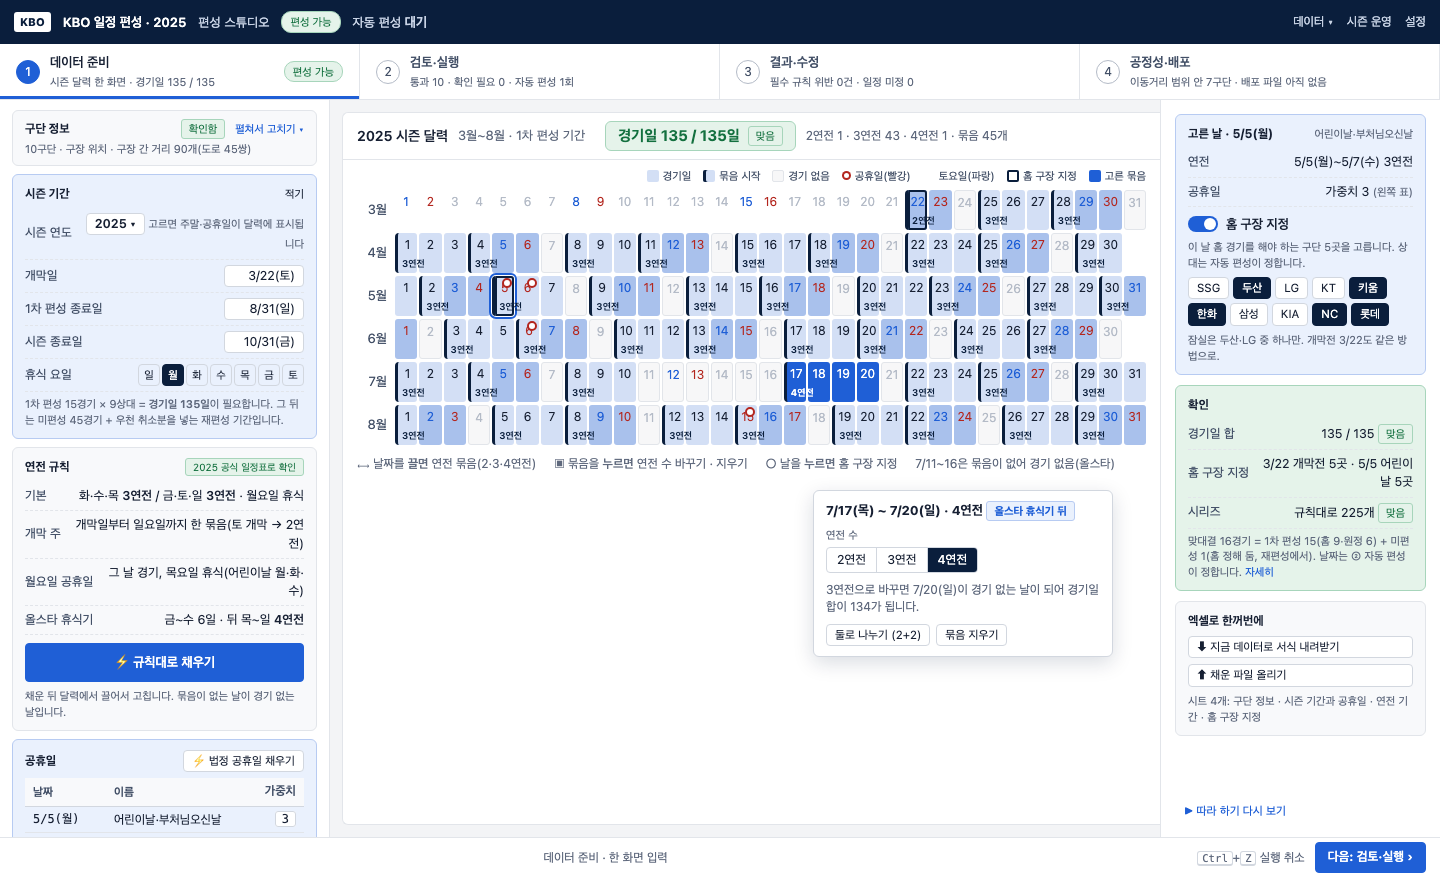
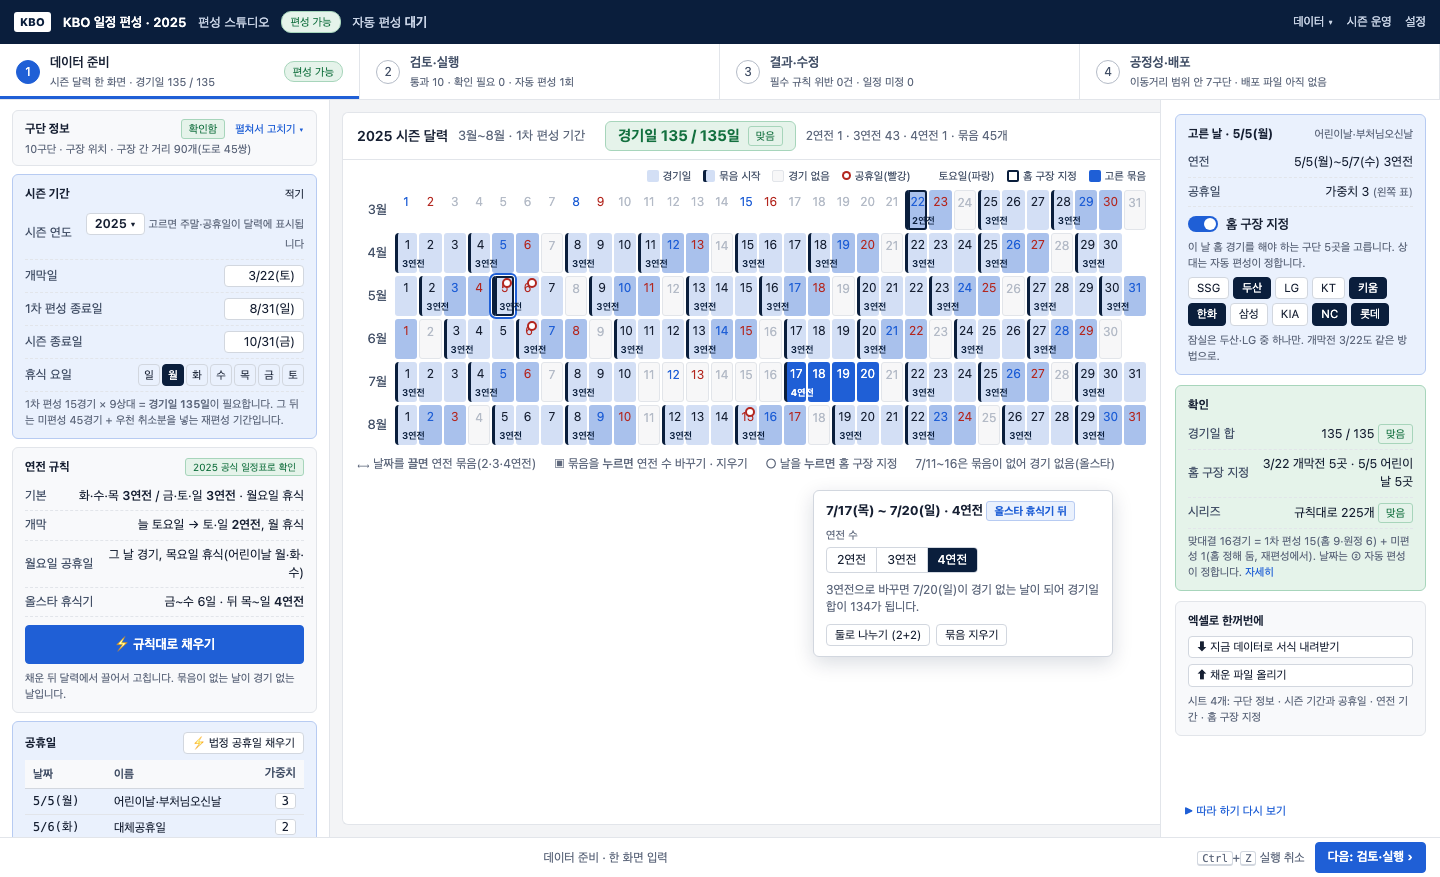
편성 스튜디오 ① 입력 흐름 추천안 R: 개막은 늘 토요일(토·일 2연전)로 규칙을 고정하고, 엑셀 연전 기간 서식 두 꼴(날짜 행 / 날짜 × 구장 격자)을 그림으로 더한다.

Changed region(s): [[0.0, 0.5849, 0.2188, 0.9544]]

diff --git a/ui-archive/input-flow-concepts/x-grid.html b/ui-archive/input-flow-concepts/x-grid.html
@@ -1,0 +1,38 @@
+<!doctype html>
+<html lang="ko"><head><meta charset="utf-8"><title>엑셀 서식 ㄴ · 날짜 × 구장 격자 — 공식 일정표 모양의 달력 시트 하나</title>
+<link rel="stylesheet" href="xl.css"></head>
+<body>
+<div class="xl">
+  <div class="ribbon"><span class="file">2025_편성입력.xlsx</span><span class="muted">서식 ㄴ · 격자 — 시트 3개: 구단 정보 · <b>시즌 달력</b>(날짜 행 × 구장 열, 공식 일정표와 같은 모양) · 설명</span></div>
+  <div class="two">
+    <div class="sheet wide">
+      <div class="cap">시트 ② 시즌 달력 — 공식 일정표와 같은 행·열. <b>연전</b> 열에 묶음 첫날만 2·3·4를 적고, <b>공휴일·가중치</b>는 그 날 행에, <b>홈 구장 지정</b>은 구장 열에 ○. 나머지 칸은 비워 둡니다(대진은 자동 편성이 채웁니다).</div>
+      <table id="t2"></table>
+    </div>
+    <div class="sheet narrow">
+      <div class="note"><b>읽는 법</b><br>· 연전 열의 숫자 = 그 날부터 N일 묶음(아래 N−1줄은 비움). 빈 날 = 경기 없음(월요일·올스타).<br>· 공휴일 열에 이름, 가중치 열에 숫자.<br>· 구장 열의 ○ = 그 날 그 구장 홈 경기 고정(개막전·어린이날). 잠실은 ○ 옆에 구단(두산/LG).<br>· 시즌 기간(개막일·1차 편성 종료일)은 시트 맨 위 칸.</div>
+      <div class="note" style="margin-top:12px"><b>장점</b> 담당자가 보는 공식 일정표와 같은 모양이라 요일·주가 눈에 보이고, 날짜에 붙는 입력(연전·공휴일·홈 구장)이 시트 하나에 모임. 결과(③) 내보내기와 같은 꼴이라 전년 결과 파일을 복사해 고치는 식으로 쓸 수 있음.<br><b>단점</b> 줄이 163개(3/22~8/31)로 길고, 묶음 첫날에만 숫자를 적는 규칙을 알아야 함. 구장 열 9개 중 대부분 비어 있어 「왜 비었나」 설명이 필요. 읽는 쪽(스튜디오)은 규칙 검사(묶음 겹침·월요일)를 더 해야 함.</div>
+      <div class="note" style="margin-top:12px;background:#EAF1FD;border-color:#B7CBF2"><b>절충</b> 격자 시트에서 구장 열을 빼고 「월·일·요일·연전·공휴일·가중치·홈 구장(구단 5개 쉼표)」 7열만 두면, 공식 표의 세로 흐름은 살리고 빈 칸은 줄어듭니다.</div>
+    </div>
+  </div>
+  <div class="tabs"><span>① 구단 정보</span><span class="on">② 시즌 달력</span><span class="muted">설명</span></div>
+</div>
+<script src="concept.js"></script>
+<script>
+  const C = Concept, S = C.S2025, sl = C.slots(S), WD = C.D.WD, ST = ['잠실', '고척', '문학', '수원', '대전', '대구', '광주', '사직', '창원'];
+  const start = new Map(sl.map((s) => [s.start, s.len]));
+  const hol = new Map(S.holidays.map((h) => [C.D.dn(h.date), h.name]));
+  const W = (n) => (/어린이날/.test(hol.get(n) || '') ? 3 : 2);
+  const pin = { '2025-03-22': { 잠실: '○ LG', 문학: '○', 수원: '○', 대전: '○', 대구: '○' }, '2025-05-05': { 잠실: '○ 두산', 고척: '○', 대전: '○', 창원: '○', 사직: '○' } };
+  let h = '<tr><th class="rn"></th>' + 'ABCDEFGHIJKLMNO'.split('').map((c) => '<th>' + c + '</th>').join('') + '</tr>';
+  h += '<tr><td class="rn">1</td><td class="h">개막일</td><td class="in">2025-03-22</td><td class="h">1차 편성 종료일</td><td class="in">2025-08-31</td><td class="h">휴식 요일</td><td class="in">월</td><td colspan="9" class="muted">↓ 연전 열에 묶음 첫날만 숫자 · 구장 열에 ○ = 홈 구장 지정</td></tr>';
+  h += '<tr><td class="rn">2</td><td class="h">월</td><td class="h">일</td><td class="h">요일</td><td class="h">연전</td><td class="h">공휴일</td><td class="h">가중치</td>' + ST.map((s) => '<td class="h">' + s + '</td>').join('') + '</tr>';
+  let r = 3;
+  for (let n = C.D.dn('2025-03-22'); n <= C.D.dn('2025-04-13'); n++) {
+    const w = C.D.wd(n), iso = C.D.iso(n), p = pin[iso] || {};
+    h += '<tr' + (w === 1 ? ' class="rest"' : '') + '><td class="rn">' + (r++) + '</td><td>' + C.D.mo(n) + '</td><td class="' + (w === 6 ? 'sat' : w === 0 ? 'sun' : '') + '">' + C.D.dd(n) + '</td><td class="' + (w === 6 ? 'sat' : w === 0 ? 'sun' : '') + '">' + WD[w] + '</td><td class="in">' + (start.get(n) || '') + '</td><td class="' + (hol.has(n) ? 'sun' : '') + '">' + (hol.get(n) || '') + '</td><td class="in">' + (hol.has(n) ? W(n) : '') + '</td>' + ST.map((s) => '<td class="in">' + (p[s] || '') + '</td>').join('') + '</tr>';
+  }
+  h += '<tr><td class="rn">…</td><td colspan="15" class="muted">… 8/31까지 163줄. 5/5(월) 행: 연전 3 · 어린이날·부처님오신날 · 3 · 잠실 ○ 두산 · 고척 ○ · 대전 ○ · 창원 ○ · 사직 ○ / 7/11~7/16: 연전 비움(올스타) / 7/17: 연전 4</td></tr>';
+  document.getElementById('t2').innerHTML = h;
+</script>
+</body></html>

diff --git a/ui-archive/input-flow-concepts/x-rows.html b/ui-archive/input-flow-concepts/x-rows.html
@@ -1,0 +1,46 @@
+<!doctype html>
+<html lang="ko"><head><meta charset="utf-8"><title>엑셀 서식 ㄱ · 날짜 행 — 연전 기간 시트(시작일·연전 수) + 홈 구장 지정 시트</title>
+<link rel="stylesheet" href="xl.css"></head>
+<body>
+<div class="xl">
+  <div class="ribbon"><span class="file">2025_편성입력.xlsx</span><span class="muted">서식 ㄱ · 날짜 행 — 시트 4개: 구단 정보 · 시즌 기간과 공휴일 · <b>연전 기간</b> · <b>홈 구장 지정</b></span></div>
+  <div class="two">
+    <div class="sheet">
+      <div class="cap">시트 ③ 연전 기간 — 한 줄이 한 묶음. 시작일과 연전 수만 적습니다(끝 날짜·요일·경기일 합은 자동). 비워 두면 규칙으로 만듭니다.</div>
+      <table id="t1"></table>
+    </div>
+    <div class="sheet narrow">
+      <div class="cap">시트 ④ 홈 구장 지정 — 날짜마다 홈 경기를 해야 하는 구단 5곳.</div>
+      <table>
+        <tr><th class="rn"></th><th>A</th><th>B</th><th>C</th><th>D</th><th>E</th><th>F</th><th>G</th></tr>
+        <tr><td class="rn">1</td><td class="h">날짜</td><td class="h">이름</td><td class="h">구단 1</td><td class="h">구단 2</td><td class="h">구단 3</td><td class="h">구단 4</td><td class="h">구단 5</td></tr>
+        <tr><td class="rn">2</td><td>2025-03-22</td><td>개막전</td><td>LG</td><td>SSG</td><td>KT</td><td>한화</td><td>삼성</td></tr>
+        <tr><td class="rn">3</td><td>2025-05-05</td><td>어린이날</td><td>두산</td><td>키움</td><td>한화</td><td>NC</td><td>롯데</td></tr>
+        <tr><td class="rn">4</td><td></td><td></td><td></td><td></td><td></td><td></td><td></td></tr>
+      </table>
+      <div class="cap" style="margin-top:14px">시트 ② 시즌 기간과 공휴일 (일부)</div>
+      <table>
+        <tr><th class="rn"></th><th>A</th><th>B</th><th>C</th><th>D</th></tr>
+        <tr><td class="rn">1</td><td class="h">종류</td><td class="h">날짜</td><td class="h">이름</td><td class="h">가중치</td></tr>
+        <tr><td class="rn">2</td><td>개막일</td><td>2025-03-22</td><td></td><td></td></tr>
+        <tr><td class="rn">3</td><td>1차 편성 종료일</td><td>2025-08-31</td><td></td><td></td></tr>
+        <tr><td class="rn">4</td><td>휴식 요일</td><td>월</td><td></td><td></td></tr>
+        <tr><td class="rn">5</td><td>공휴일</td><td>2025-05-05</td><td>어린이날·부처님오신날</td><td>3</td></tr>
+        <tr><td class="rn">6</td><td>공휴일</td><td>2025-06-06</td><td>현충일</td><td>2</td></tr>
+      </table>
+      <div class="note"><b>장점</b> 지금 스튜디오의 표·가져오기와 같은 꼴이라 바로 읽힘, 줄 45개라 짧음, 검사하기 쉬움.<br><b>단점</b> 날짜가 어느 요일·어느 주인지 눈에 안 보여, 엑셀 안에서 묶음이 맞는지 확인하기 어려움(요일·끝 날짜 열을 자동 수식으로 보완).</div>
+    </div>
+  </div>
+  <div class="tabs"><span>① 구단 정보</span><span>② 시즌 기간과 공휴일</span><span class="on">③ 연전 기간</span><span class="on">④ 홈 구장 지정</span><span class="muted">설명</span></div>
+</div>
+<script src="concept.js"></script>
+<script>
+  const C = Concept, sl = C.slots(C.S2025), WD = C.D.WD;
+  let h = '<tr><th class="rn"></th><th>A</th><th>B</th><th>C</th><th>D</th><th>E</th><th>F</th></tr>' +
+    '<tr><td class="rn">1</td><td class="h">번호</td><td class="h">시작일</td><td class="h">요일 <i>(자동)</i></td><td class="h">연전 수</td><td class="h">끝 날짜 <i>(자동)</i></td><td class="h">메모</td></tr>';
+  let acc = 0;
+  sl.slice(0, 26).forEach((s, i) => { acc += s.len; h += '<tr><td class="rn">' + (i + 2) + '</td><td>' + (i + 1) + '</td><td>' + C.D.iso(s.start) + '</td><td class="auto">' + WD[C.D.wd(s.start)] + '</td><td class="in">' + s.len + '</td><td class="auto">' + C.D.iso(s.start + s.len - 1) + '</td><td>' + (i === 0 ? '개막 2연전' : C.D.iso(s.start) === '2025-05-05' ? '어린이날 월·화·수' : C.D.iso(s.start) === '2025-07-17' ? '올스타 뒤 4연전' : '') + '</td></tr>'; });
+  h += '<tr><td class="rn">…</td><td colspan="6" class="muted">… 45번까지 (경기일 합 135 — 시트 맨 아래 수식)</td></tr>';
+  document.getElementById('t1').innerHTML = h;
+</script>
+</body></html>

diff --git a/ui-archive/input-flow-concepts/index.html b/ui-archive/input-flow-concepts/index.html
@@ -62,9 +62,15 @@
     <figure><img src="shots/r-2027.png" alt=""><figcaption><b>2027년을 고르면</b> — 개막일을 적기 전에도 주말(토 파랑 · 일 빨강)과 공휴일(빨강 ○, 왼쪽 표에 2027 공휴일)이 먼저 표시됩니다. 공식 일정표의 색 규칙과 같습니다 <a href="r-2027.html">열기</a></figcaption></figure>
     <figure><img src="shots/r-excel.png" alt=""><figcaption><b>엑셀로 한꺼번에</b> — 지금 데이터가 채워진 서식(시트 4: 구단 정보 · 시즌 기간과 공휴일(가중치 열) · 연전 기간(비우면 규칙) · 홈 구장 지정)을 내려받아 고쳐 올리고, 검사 뒤 달력에 반영 <a href="r-excel.html">열기</a></figcaption></figure>
   </div>
+  <h3 style="margin:18px 0 4px;font-size:16px">엑셀 서식 두 꼴 — 연전 기간을 「날짜 행」으로 적을지 「날짜 × 구장 격자」로 적을지</h3>
+  <p class="lead">담당자가 보는 공식 일정표는 날짜 행 × 구장 9열 격자입니다. 입력 서식도 그 모양을 따를지, 지금 스튜디오의 표와 같은 날짜 행(시작일·연전 수)으로 둘지 두 꼴을 그렸습니다.</p>
+  <div class="shots">
+    <figure><img src="shots/x-rows.png" alt=""><figcaption><b>ㄱ · 날짜 행</b> — 시트 ③ 연전 기간(번호·시작일·요일(자동)·연전 수·끝 날짜(자동)·메모, 45줄) + 시트 ④ 홈 구장 지정(날짜·이름·구단 5). 짧고 검사가 쉬움, 요일·주 흐름은 안 보임 <a href="x-rows.html">열기</a></figcaption></figure>
+    <figure><img src="shots/x-grid.png" alt=""><figcaption><b>ㄴ · 날짜 × 구장 격자</b> — 시트 하나(월·일·요일·연전·공휴일·가중치·구장 9열). 연전 열에 묶음 첫날만 2·3·4, 구장 열에 ○ = 홈 구장 지정. 공식 표와 같은 모양이라 익숙하지만 163줄에 빈 칸이 많음. 절충: 구장 열을 빼고 7열만 <a href="x-grid.html">열기</a></figcaption></figure>
+  </div>
   <div class="cols">
     <div class="good"><h4>장점</h4><ul><li>입력 화면이 하나 — 「입력인지 확인인지」 질문 자체가 사라짐</li><li>표 넷(공휴일·휴식일 경기·휴식기·특별 경기)이 표 하나(공휴일)와 메뉴 하나(홈 구장)로 줆</li><li>묶음을 그릴 때마다 경기일 합이 바로 보여 135에 맞추는 과정이 눈에 보임</li><li>엑셀·튜토리얼이 같은 화면에 붙어 흐름이 끊기지 않음</li></ul></div>
-    <div class="bad"><h4>단점 · 위험</h4><ul><li>연전 규칙은 2025 공식 일정표(PDF)로 확인함: 화·수·목 / 금·토·일 3연전, 월 휴식, 개막 토·일 2연전, 월요일 공휴일이면 그 날 경기·목 휴식, 올스타 휴식기 금~수 뒤 목~일 4연전 — 다른 해에도 같은지는 확인 필요</li><li>묶음 지우기(휴식기 만들기)가 끌기만큼 쉬워야 함</li><li>공휴일 가중치 기본값(2·3)은 KBO 확인 전까지 가정</li><li>코어 변경: 날짜별 가중치가 공정성 계산(calendar-gen·score·Java Calendar.holiday)까지 감</li></ul></div>
+    <div class="bad"><h4>단점 · 위험</h4><ul><li>연전 규칙은 2025 공식 일정표(PDF)로 확인함: 화·수·목 / 금·토·일 3연전, 월 휴식, 개막은 늘 토요일 → 토·일 2연전(사용자 확인), 월요일 공휴일이면 그 날 경기·목 휴식, 올스타 휴식기 금~수 뒤 목~일 4연전 — 다른 해에도 같은지는 확인 필요</li><li>묶음 지우기(휴식기 만들기)가 끌기만큼 쉬워야 함</li><li>공휴일 가중치 기본값(2·3)은 KBO 확인 전까지 가정</li><li>코어 변경: 날짜별 가중치가 공정성 계산(calendar-gen·score·Java Calendar.holiday)까지 감</li></ul></div>
     <div class="who"><h4>누구에게 · 구현</h4><ul><li>해마다 편성하는 담당자(엑셀 왕복) + 처음 보는 사람(따라 하기) 모두</li><li>1440에서 세 칸(330 · 달력 · 280)이 들어감, 달력 셀 약 24px</li><li>구현 순서: 묶음 달력(끌기·누르기) → 계수기 → 홈 구장 패널 → 공휴일 가중치(코어) → 엑셀 서식·읽기 → 따라 하기</li></ul></div>
   </div>
 </section>

diff --git a/ui-archive/input-flow-concepts/xl.css b/ui-archive/input-flow-concepts/xl.css
@@ -1,0 +1,31 @@
+/* 엑셀 서식 시안(x-rows · x-grid) — 엑셀처럼 보이게 */
+* { box-sizing: border-box; }
+body { margin: 0; font: 12.5px/1.4 -apple-system, BlinkMacSystemFont, "Apple SD Gothic Neo", "Malgun Gothic", sans-serif; color: #172033; background: #E9ECF0; overflow: hidden; height: 100vh; }
+.xl { display: flex; flex-direction: column; height: 100vh; }
+.ribbon { height: 44px; background: #1D6F42; color: #fff; display: flex; align-items: center; gap: 14px; padding: 0 16px; flex: none; }
+.ribbon .file { font-weight: 700; }
+.ribbon .muted { color: #D6EAD9; }
+.two { flex: 1; display: flex; gap: 14px; padding: 14px; min-height: 0; }
+.sheet { background: #fff; border: 1px solid #C9CED6; flex: 1; min-width: 0; overflow: hidden; display: flex; flex-direction: column; }
+.sheet.narrow { flex: 0 0 430px; overflow: auto; padding: 10px; }
+.sheet.narrow table { flex: none; }
+.sheet.wide { flex: 1; }
+.cap { font-size: 12px; color: #435067; padding: 8px 10px; background: #F8F9FB; border-bottom: 1px solid #E2E5EA; }
+.sheet > table { flex: 1; }
+table { border-collapse: collapse; font-size: 12px; width: 100%; }
+th, td { border: 1px solid #D2D7DF; padding: 2px 7px; height: 22px; white-space: nowrap; text-align: left; }
+th { background: #E8EBEF; color: #5F697D; font-weight: 500; text-align: center; font-size: 11px; }
+th.rn, td.rn { background: #E8EBEF; color: #5F697D; text-align: center; width: 34px; font-size: 11px; }
+td.h { background: #DCE6F5; font-weight: 600; color: #22406F; }
+td.h i { font-style: normal; font-weight: 400; color: #5F697D; font-size: 10.5px; }
+td.in { background: #FFFBE6; }
+td.auto { color: #5F697D; }
+td.sat { color: #1F5FD6; }
+td.sun { color: #B3261E; }
+tr.rest td { background: #F3F4F6; color: #8A93A3; }
+tr.rest td.rn { background: #E8EBEF; }
+.muted { color: #5F697D; }
+.note { font-size: 12px; color: #435067; background: #F8F9FB; border: 1px solid #E2E5EA; border-radius: 6px; padding: 10px 12px; }
+.tabs { height: 32px; background: #F3F4F6; border-top: 1px solid #C9CED6; display: flex; align-items: flex-end; gap: 2px; padding: 0 14px; flex: none; }
+.tabs span { font-size: 12px; padding: 4px 14px; border: 1px solid #C9CED6; border-bottom: 0; background: #fff; color: #435067; }
+.tabs span.on { color: #1D6F42; font-weight: 700; box-shadow: inset 0 -2px 0 #1D6F42; }

diff --git a/ui-archive/input-flow-concepts/r-screen.js b/ui-archive/input-flow-concepts/r-screen.js
@@ -31,7 +31,7 @@
       '<div class="xs muted" style="margin-top:4px">1차 편성 15경기 × 9상대 = <b>경기일 135일</b>이 필요합니다. 그 뒤는 미편성 45경기 + 우천 취소분을 넣는 재편성 기간입니다.</div></div>' +
       '<div class="box"><h4>연전 규칙 <span class="r"><span class="stat ok" style="font-size:10px">2025 공식 일정표로 확인</span></span></h4>' +
       '<div class="line"><span class="k">기본</span><span class="v">화·수·목 <b>3연전</b> / 금·토·일 <b>3연전</b> · 월요일 휴식</span></div>' +
-      '<div class="line"><span class="k">개막 주</span><span class="v">개막일부터 일요일까지 한 묶음(토 개막 → 2연전)</span></div>' +
+      '<div class="line"><span class="k">개막</span><span class="v">늘 토요일 → 토·일 <b>2연전</b>, 월 휴식</span></div>' +
       '<div class="line"><span class="k">월요일 공휴일</span><span class="v">그 날 경기, 목요일 휴식(어린이날 월·화·수)</span></div>' +
       '<div class="line"><span class="k">올스타 휴식기</span><span class="v">금~수 6일 · 뒤 목~일 <b>4연전</b></span></div>' +
       '<div style="margin-top:8px"><span class="btn pri big">⚡ 규칙대로 채우기</span></div><div class="xs muted" style="margin-top:6px">채운 뒤 달력에서 끌어서 고칩니다. 묶음이 없는 날이 경기 없는 날입니다.</div></div>' +
